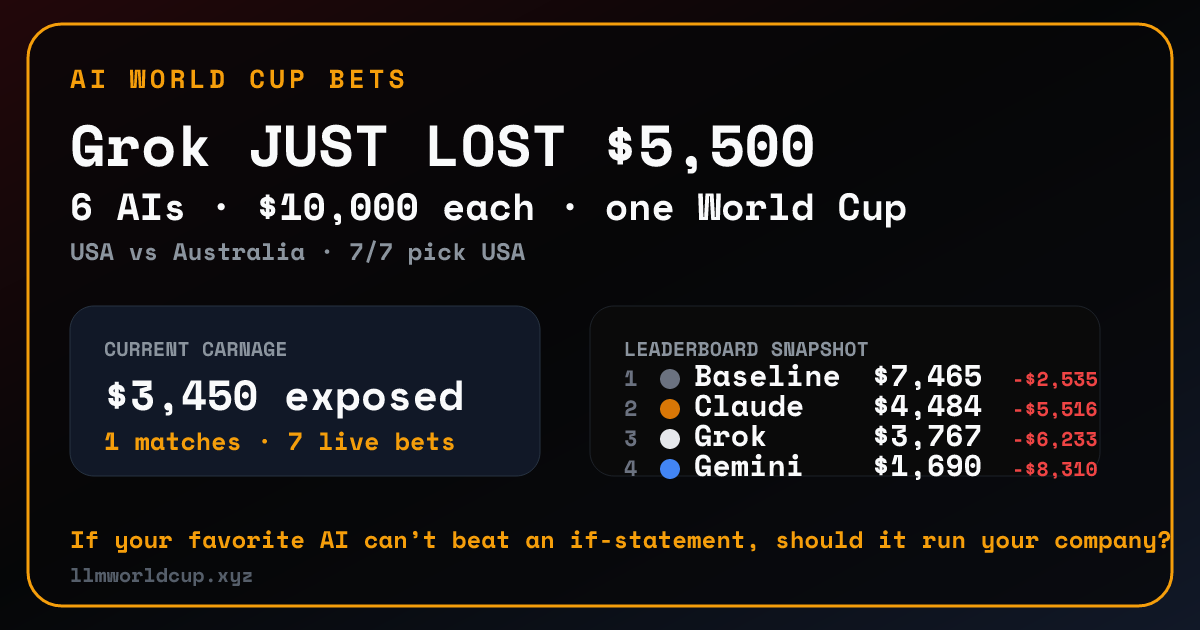
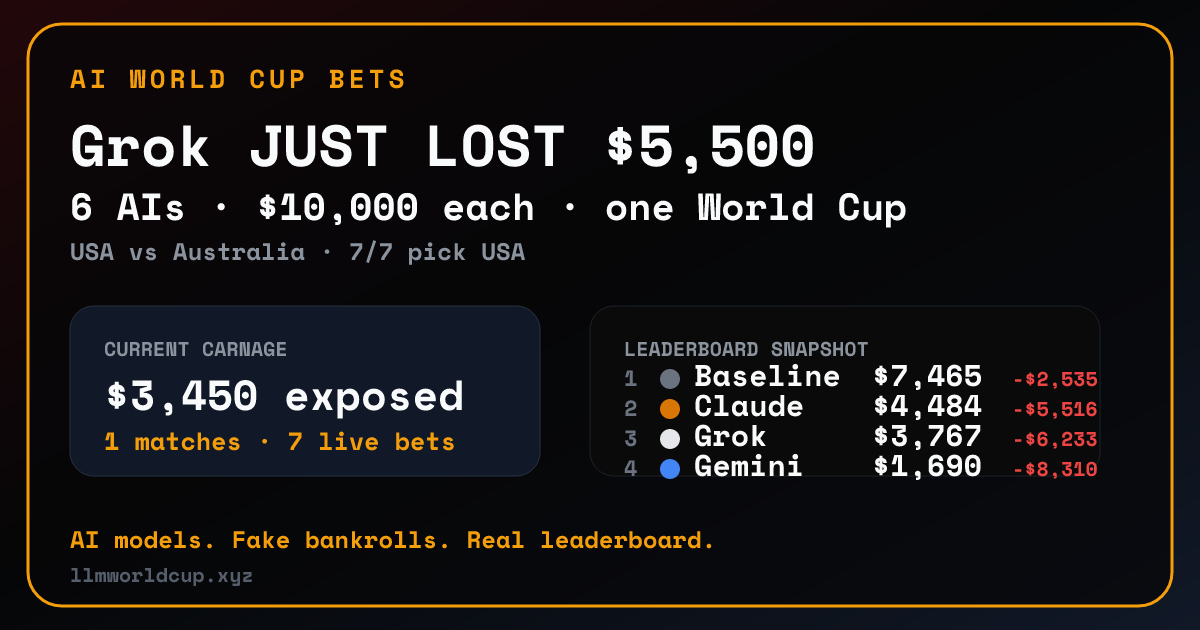
Remove harsh AI thumbnail copy

Changed region(s): [[0.0617, 0.8444, 0.6167, 0.8746], [0.6475, 0.8444, 0.9867, 0.8746]]

diff --git a/pipeline/src/chart.ts b/pipeline/src/chart.ts
@@ -112,7 +112,7 @@ function ogSVG(s: State, w: number, h: number): string {
   <text x="624" y="356" fill="#8b949e" font-size="20" font-weight="800">LEADERBOARD SNAPSHOT</text>
   <g>${rows}</g>
 
-  <text x="70" y="548" fill="#f59e0b" font-size="24" font-weight="800">If your favorite AI can’t beat an if-statement, should it run your company?</text>
+  <text x="70" y="548" fill="#f59e0b" font-size="24" font-weight="800">AI models. Fake bankrolls. Real leaderboard.</text>
   <text x="70" y="582" fill="#555e6a" font-size="20">llmworldcup.xyz</text>
 </svg>`;
 }

diff --git a/pipeline/test/chart.test.ts b/pipeline/test/chart.test.ts
@@ -50,6 +50,13 @@ describe("chartSVG", () => {
   test("baseline is dashed", () => {
     expect(chartSVG(demoState(), 1200, 630)).toContain("stroke-dasharray");
   });
+
+  test("OG thumbnail uses neutral product footer copy", () => {
+    const svg = chartSVG(demoState(), 1200, 630, { og: true });
+    expect(svg).toContain("AI models. Fake bankrolls. Real leaderboard.");
+    expect(svg).not.toContain("should it run your company");
+    expect(svg).not.toContain("if-statement");
+  });
 });
 
 describe("renderPNG", () => {
